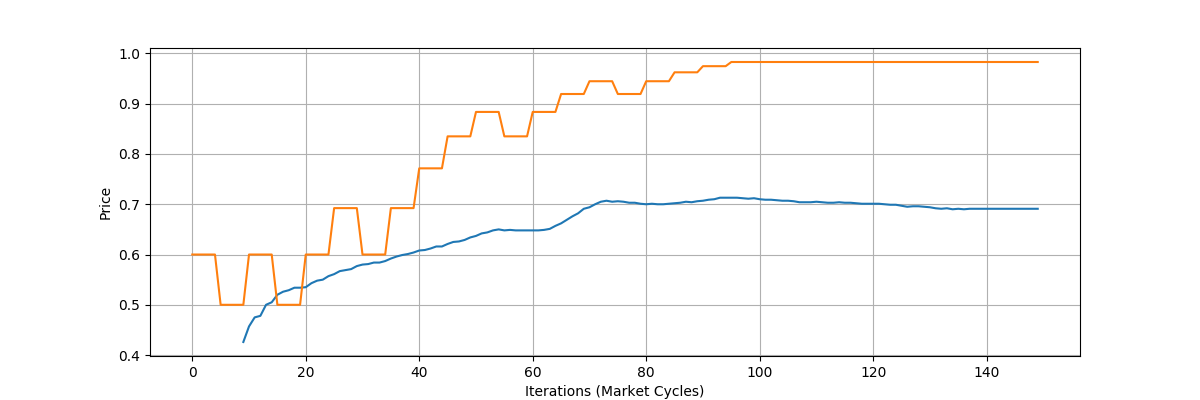
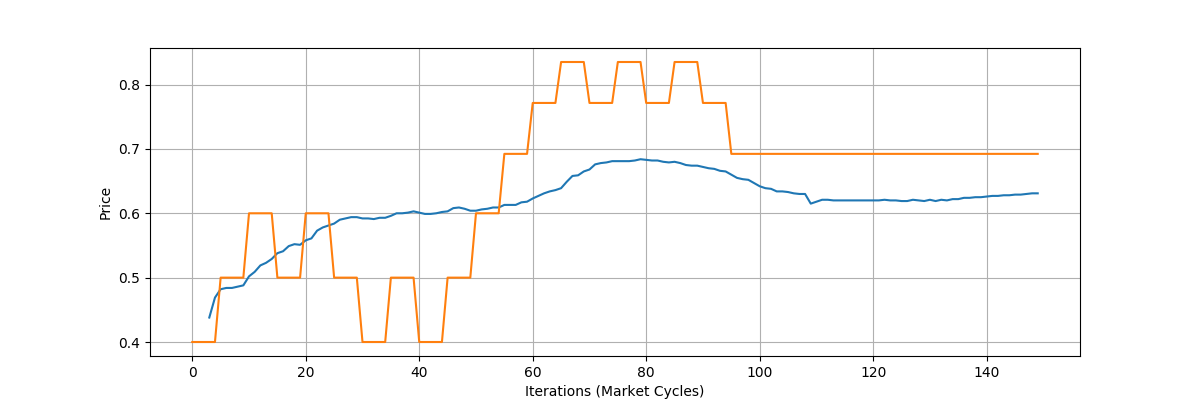
only update once per evidence distribution

diff --git a/main.py b/main.py
@@ -5,7 +5,7 @@ import pandas as pd
 import matplotlib.pyplot as plt
 
 parser = argparse.ArgumentParser(description='Parameters of the Prediction Market simulation.')
-parser.add_argument('-n', metavar="NUM_AGENTS", default=20, type=int, help='Provide the number of agents in the market (default: 100)')
+parser.add_argument('-n', metavar="NUM_AGENTS", default=50, type=int, help='Provide the number of agents in the market (default: 100)')
 parser.add_argument('-i', metavar="NUM_ITERATIONS", default=150, type=int, help='Provide the number of iterations of the market (default: 50)')
 
 args = parser.parse_args()
@@ -20,7 +20,7 @@ EVIDENCE_TIME = int((1-FRACTION_EXTRA_TIME)*MAX_ITER)
 
 #Values pertaining to agent behavior
 RISK_FACTOR = 0.02
-STUBBORNNESS = 0.5 #range from 0 (trusts the market) to 1 (only trust yourself!)
+STUBBORNNESS = 0.1 #range from 0 (trusts the market) to 1 (only trust yourself!)
 
 TIME = 0 #This will be the time which will allow the bids/asks to be ordered based on how old they are
 
@@ -262,15 +262,13 @@ def main():
     bids_for = []
     heapq.heapify(bids_against)
     for i in range(0, MAX_ITER):
-        if i < EVIDENCE_TIME:    #allow for extra time after evidence to just trade
-            #all agents learn from recent changes in market price
-            learn_from_market(market)
-            
+        if i < EVIDENCE_TIME:    #allow for extra time after evidence to just trade          
             if i%iters_per_evidence == 0:
+                learn_from_market(market) #all agents learn from recent changes in market price
+                market.old_market_price = market.market_price
+                
                 the_almighty.update_universe(market, int(N_AGENTS * FRACTION_RECEIVING_EVIDENCE))     
                 #print("God has spoken!")   
-                
-        market.old_market_price = market.market_price
         
         all_agents = market.all_agents.copy()
         random.shuffle(all_agents)
